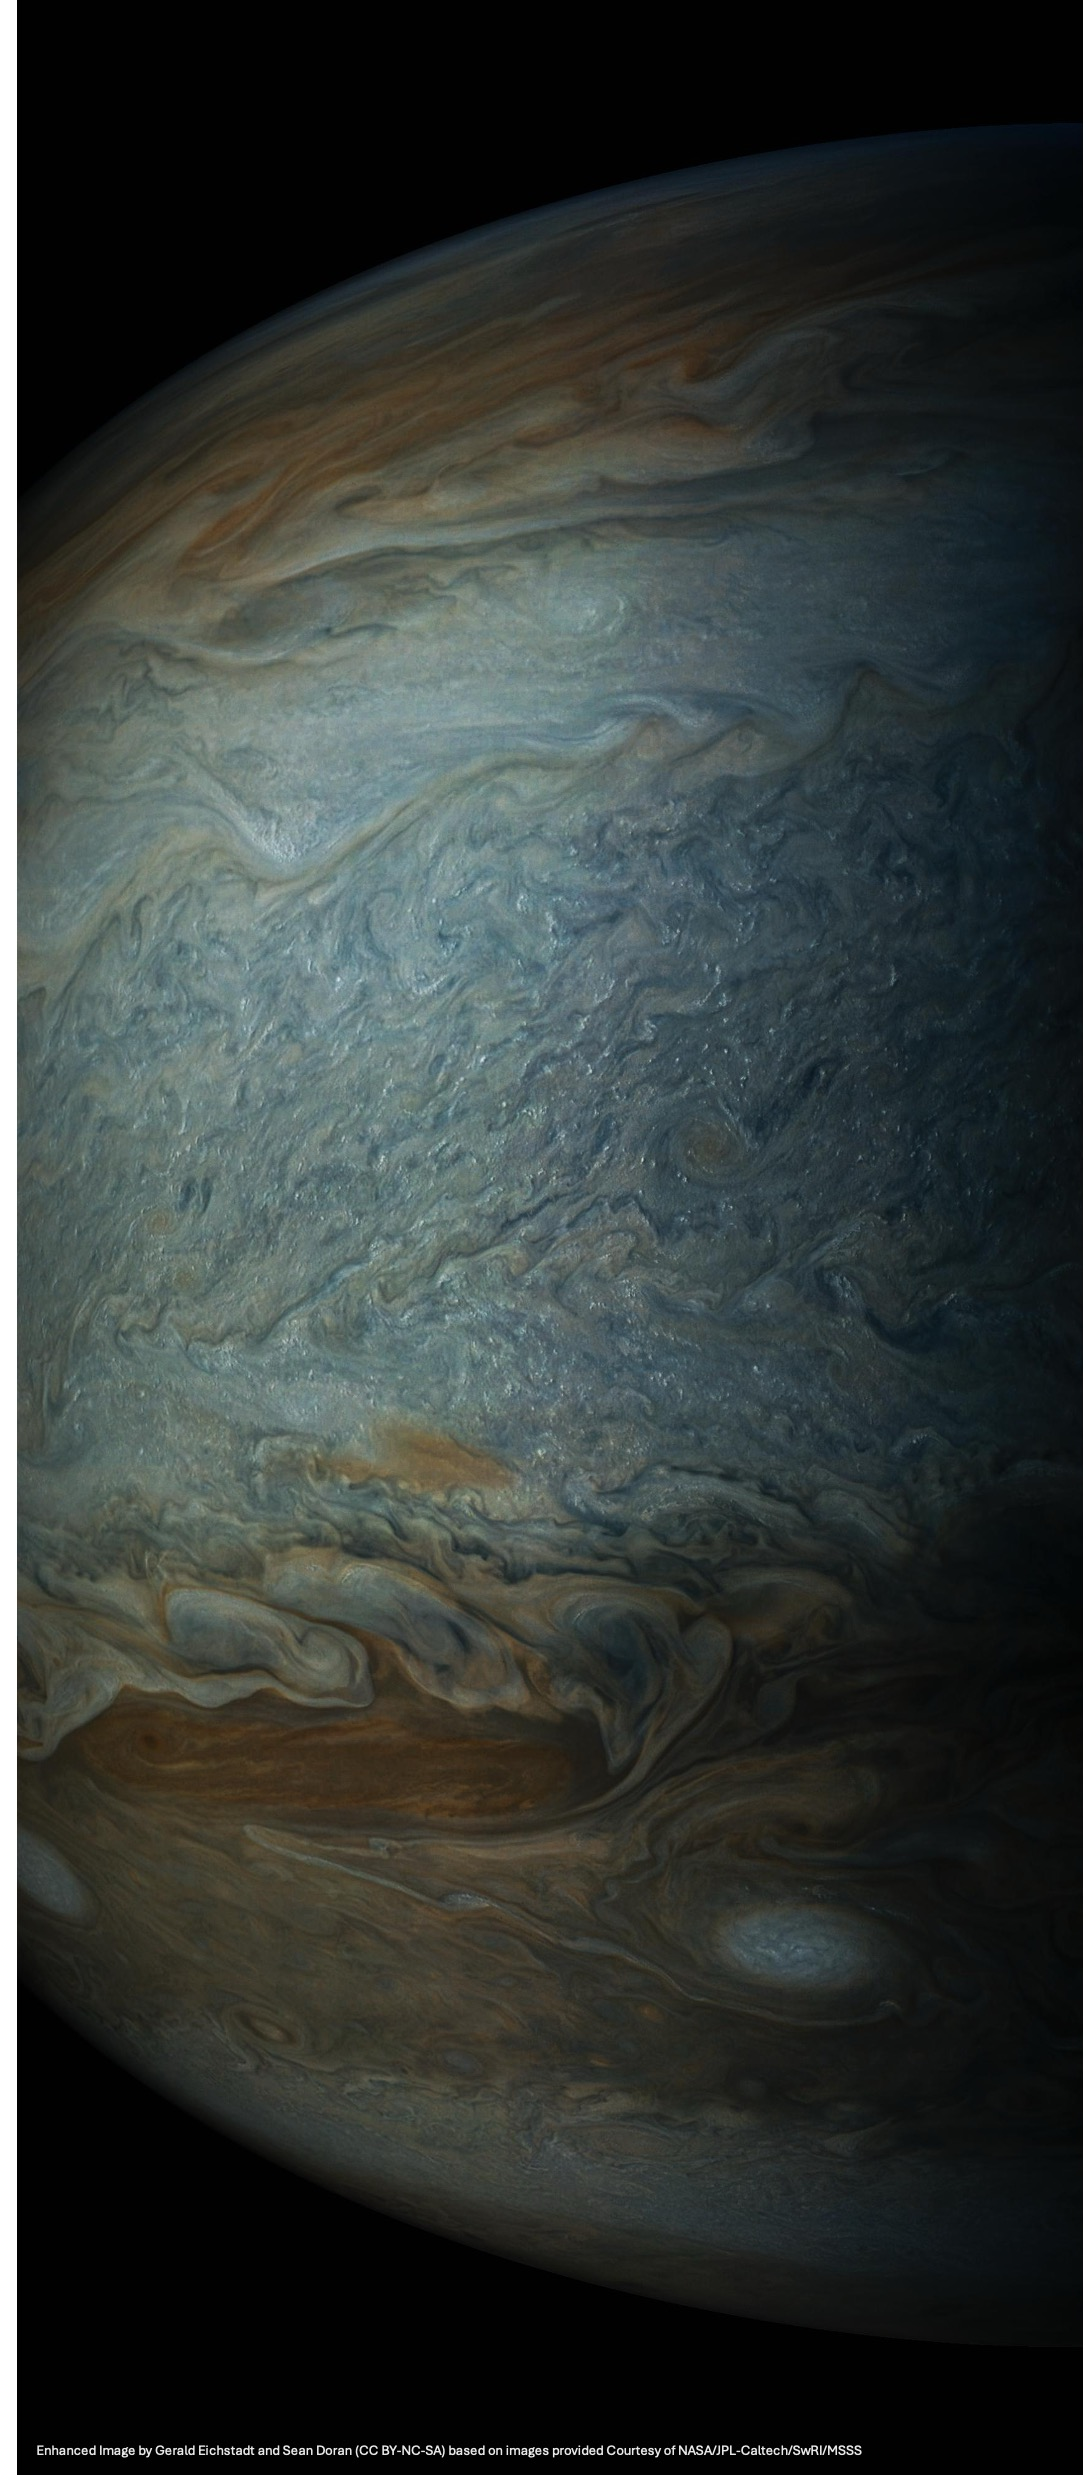
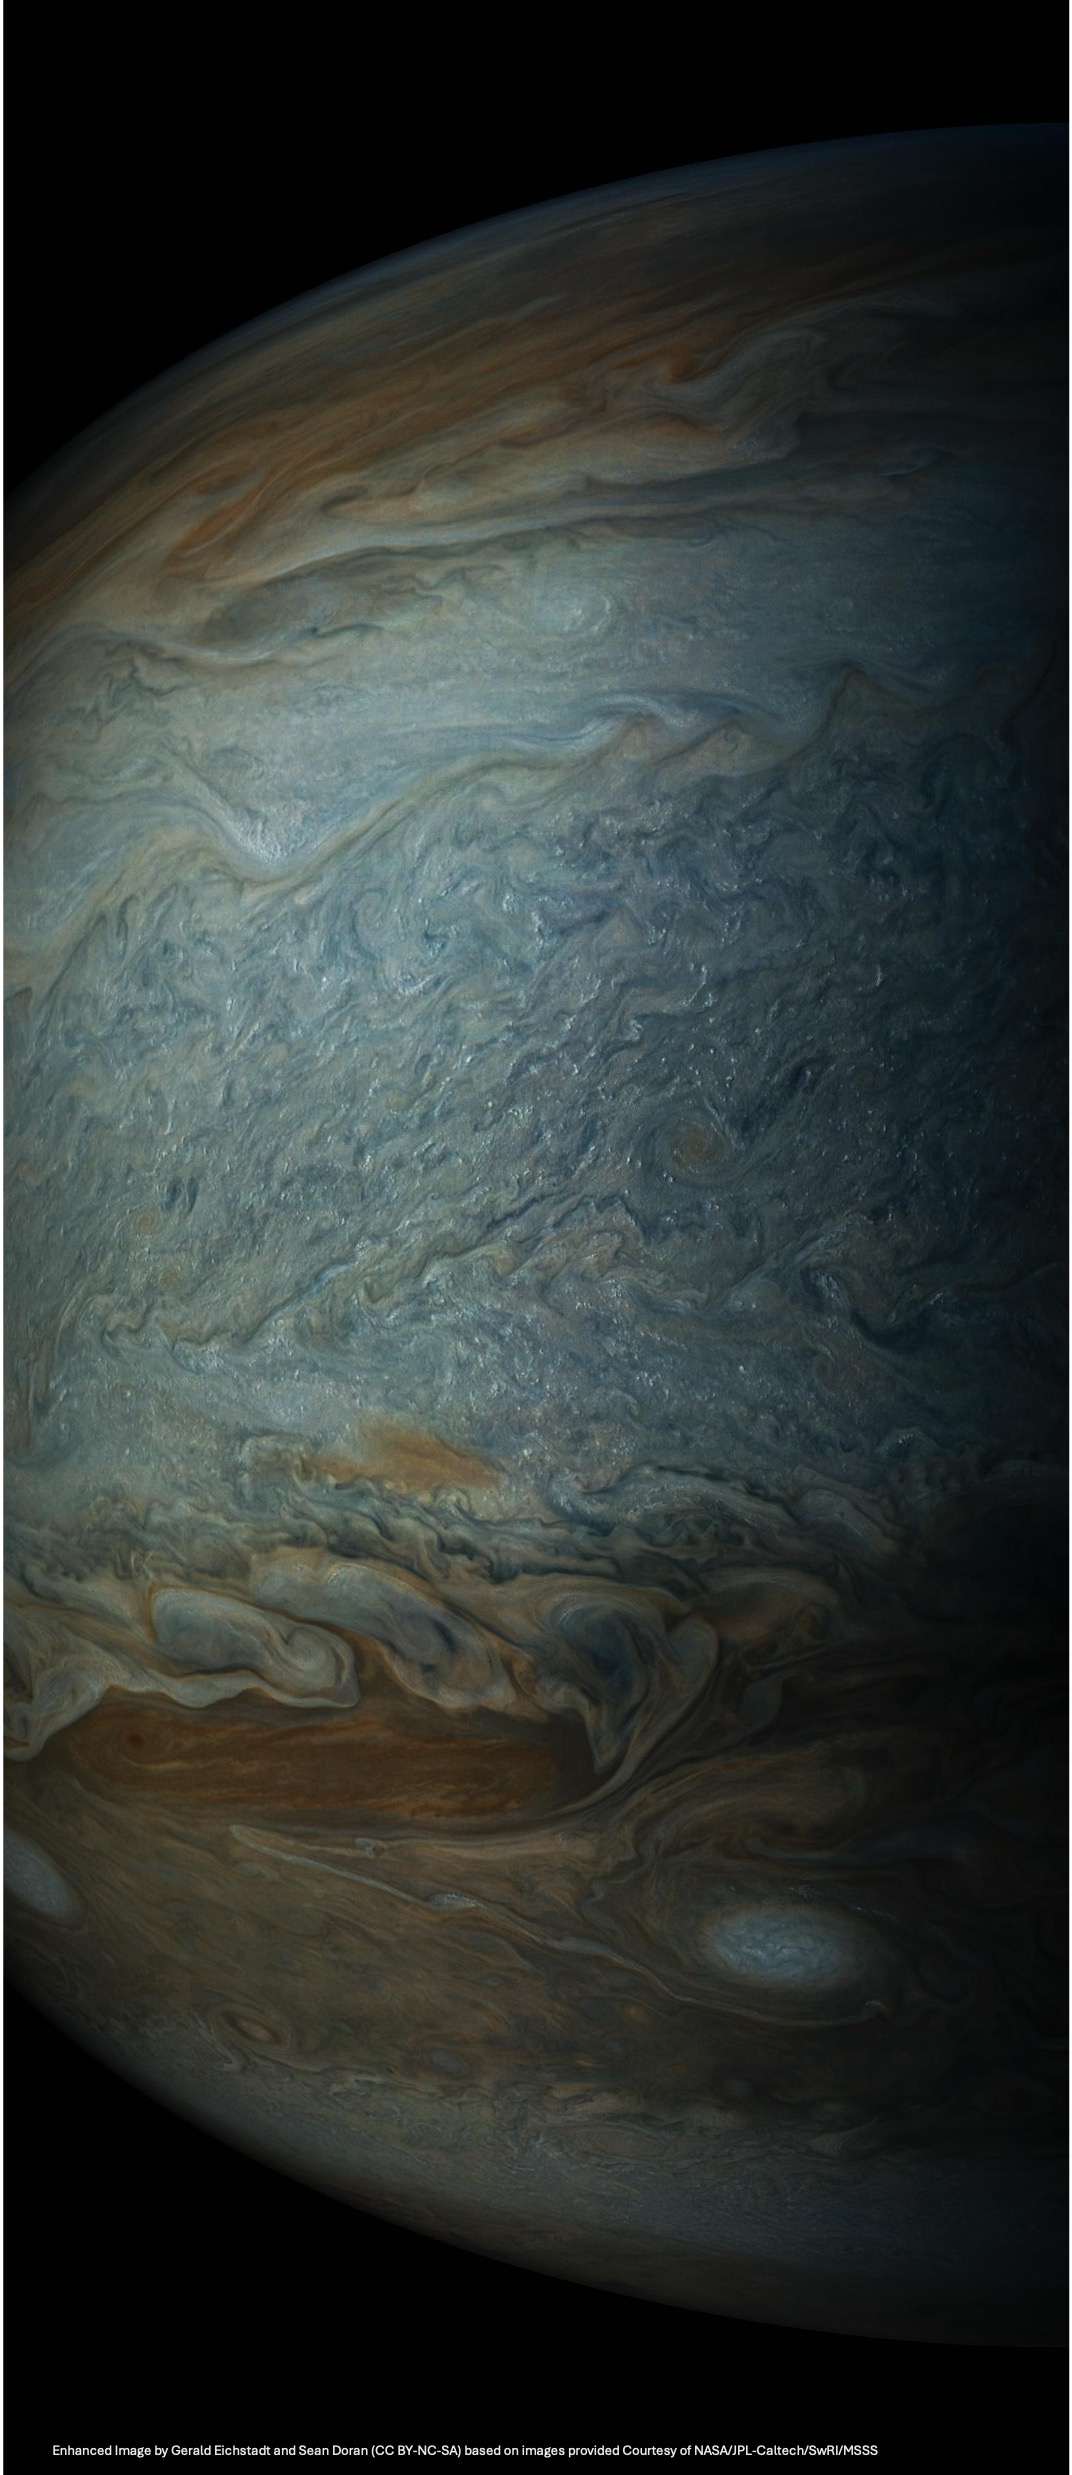
Changed background theme color to black Added meta information to all HTML files with the same changes

diff --git a/assets/css/main.css b/assets/css/main.css
@@ -3917,3 +3917,7 @@ header.major.with-subheader:after {
 			}
 
 		}
+html,
+body {
+	background-color: #000000 !important;
+}

diff --git a/aboutme.html b/aboutme.html
@@ -9,6 +9,7 @@
 		<title>Levi Walls | About Me</title>
 		<meta charset="utf-8" />
 		<meta name="viewport" content="width=device-width, initial-scale=1, user-scalable=no" />
+		<meta name="theme-color" content="#000000" />
 		<link rel="stylesheet" href="assets/css/main.css" />
 		<noscript><link rel="stylesheet" href="assets/css/noscript.css" /></noscript>
 	</head>

diff --git a/contact.html b/contact.html
@@ -9,6 +9,7 @@
 		<title>Levi Walls | Contact</title>
 		<meta charset="utf-8" />
 		<meta name="viewport" content="width=device-width, initial-scale=1, user-scalable=no" />
+		<meta name="theme-color" content="#000000" />
 		<link rel="stylesheet" href="assets/css/main.css" />
 		<noscript><link rel="stylesheet" href="assets/css/noscript.css" /></noscript>
 	</head>

diff --git a/index.html b/index.html
@@ -9,6 +9,7 @@
 		<title>Levi Walls</title>
 		<meta charset="utf-8" />
 		<meta name="viewport" content="width=device-width, initial-scale=1, user-scalable=no" />
+		<meta name="theme-color" content="#000000" />
 		<link rel="stylesheet" href="assets/css/main.css" />
 		<noscript><link rel="stylesheet" href="assets/css/noscript.css" /></noscript>
 	</head>

diff --git a/outreach.html b/outreach.html
@@ -9,6 +9,7 @@
 		<title>Levi Walls | Outreach</title>
 		<meta charset="utf-8" />
 		<meta name="viewport" content="width=device-width, initial-scale=1, user-scalable=no" />
+		<meta name="theme-color" content="#000000" />
 		<link rel="stylesheet" href="assets/css/main.css" />
 		<noscript><link rel="stylesheet" href="assets/css/noscript.css" /></noscript>
 	</head>

diff --git a/research.html b/research.html
@@ -9,6 +9,7 @@
 		<title>Levi Walls | Research</title>
 		<meta charset="utf-8" />
 		<meta name="viewport" content="width=device-width, initial-scale=1, user-scalable=no" />
+		<meta name="theme-color" content="#000000" />
 		<link rel="stylesheet" href="assets/css/main.css" />
 		<noscript><link rel="stylesheet" href="assets/css/noscript.css" /></noscript>
 	</head>

diff --git a/teaching.html b/teaching.html
@@ -9,6 +9,7 @@
 		<title>Levi Walls | Teaching</title>
 		<meta charset="utf-8" />
 		<meta name="viewport" content="width=device-width, initial-scale=1, user-scalable=no" />
+		<meta name="theme-color" content="#000000" />
 		<link rel="stylesheet" href="assets/css/main.css" />
 		<noscript><link rel="stylesheet" href="assets/css/noscript.css" /></noscript>
 	</head>